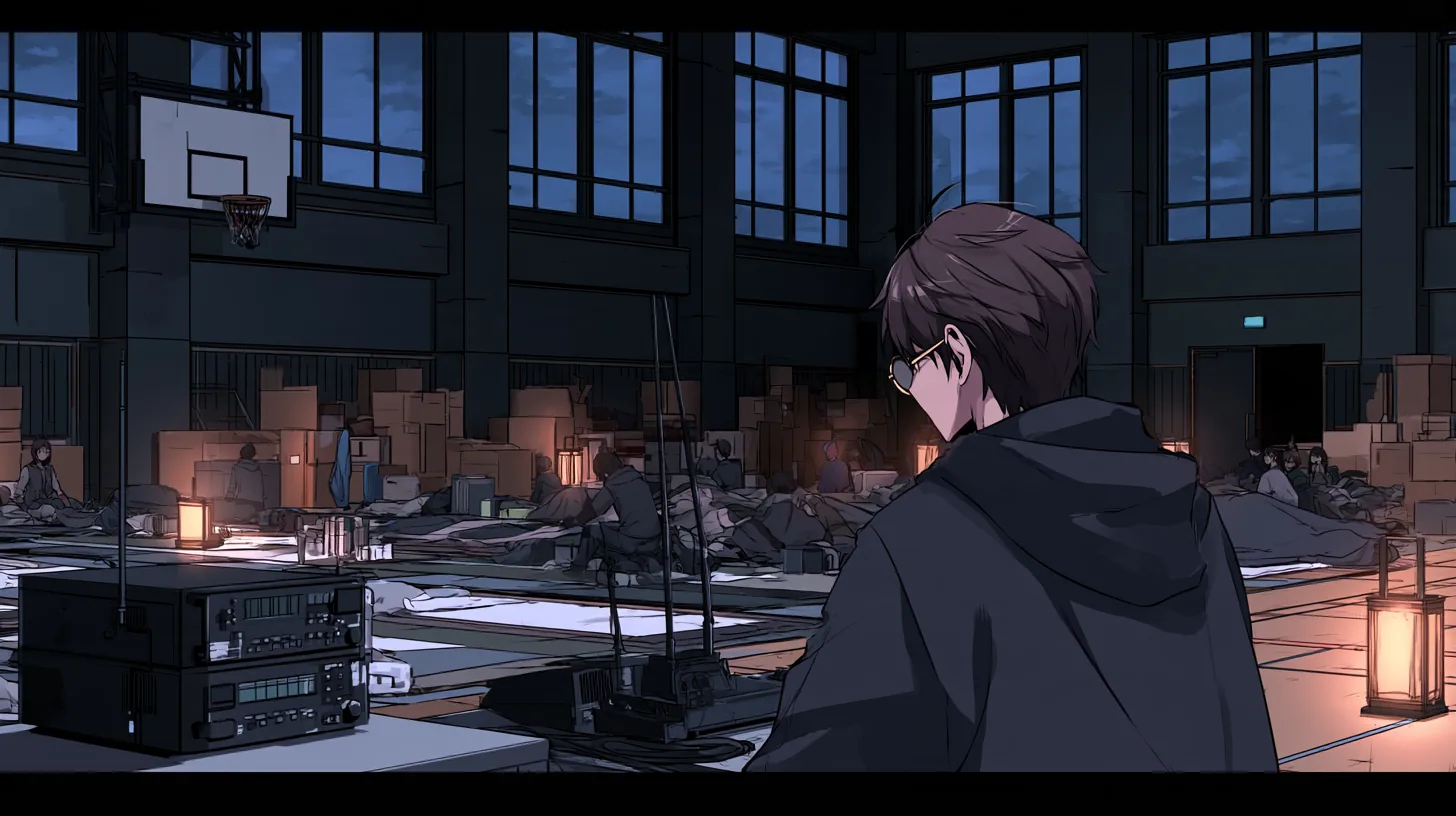
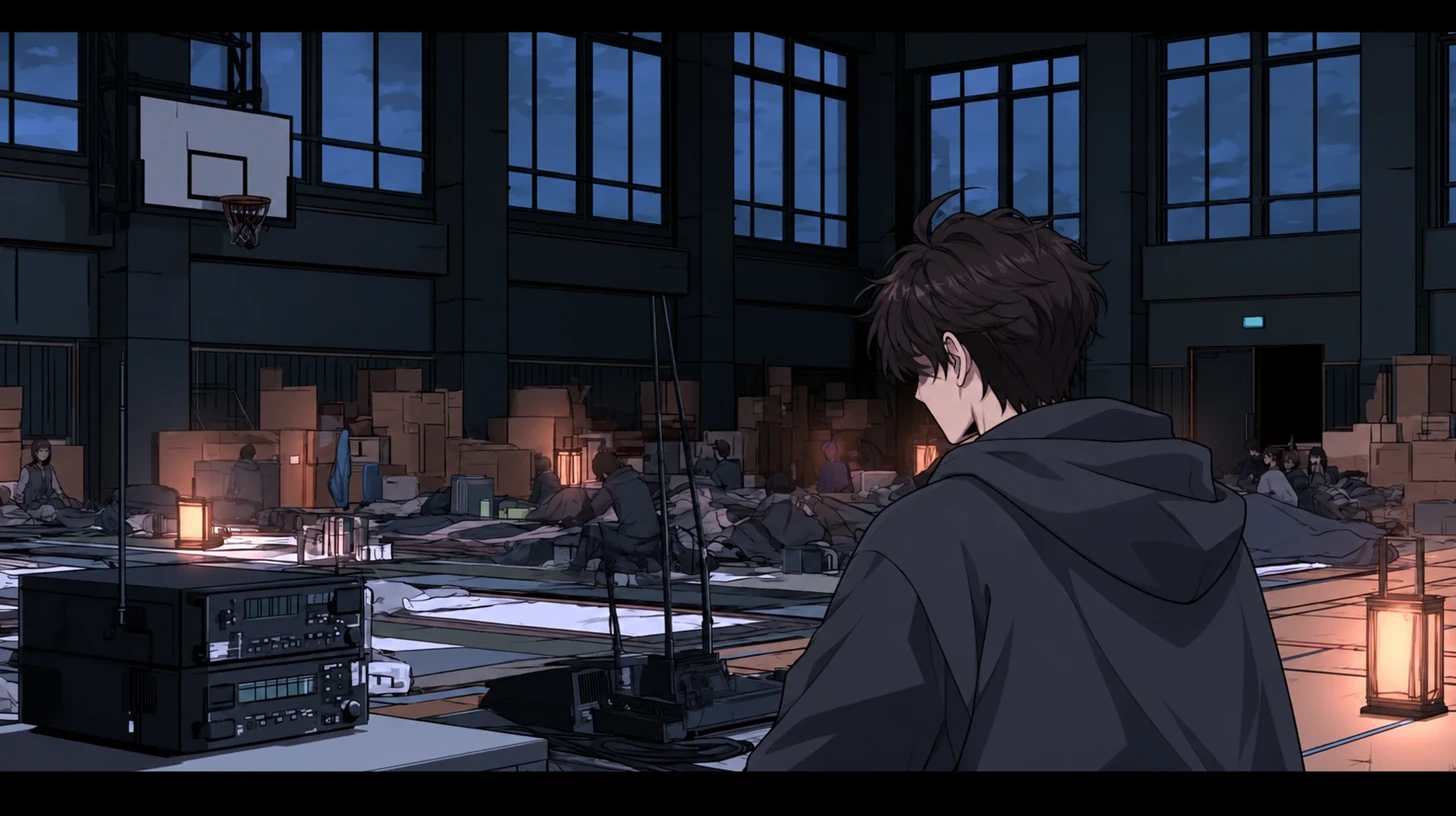
feat(cutscene): 생존자 방송의 재하 컷과 공 회상 그림을 바꾼다
- 생존자 방송 4·6·8번 컷의 재하를 갈색 머리, 안경 없는 얼굴로 바꾼다
- 공 회상 컷씬 그림을 바꾼다
- 바꾼 그림의 ?v= 버전을 올리고 흐린 미리보기를 다시 굽는다

diff --git a/src/lib/assets.ts b/src/lib/assets.ts
@@ -105,11 +105,11 @@ export const ASSETS = {
     cutsceneSurvivor1: "/assets/images/cutscene-survivor-1.webp?v=2",
     cutsceneSurvivor2: "/assets/images/cutscene-survivor-2.webp?v=2",
     cutsceneSurvivor3: "/assets/images/cutscene-survivor-3.webp?v=3",
-    cutsceneSurvivor4: "/assets/images/cutscene-survivor-4.webp?v=2",
+    cutsceneSurvivor4: "/assets/images/cutscene-survivor-4.webp?v=4",
     cutsceneSurvivor5: "/assets/images/cutscene-survivor-5.webp?v=2",
-    cutsceneSurvivor6: "/assets/images/cutscene-survivor-6.webp?v=2",
+    cutsceneSurvivor6: "/assets/images/cutscene-survivor-6.webp?v=3",
     cutsceneSurvivor7: "/assets/images/cutscene-survivor-7.webp?v=2",
-    cutsceneSurvivor8: "/assets/images/cutscene-survivor-8.webp?v=2",
+    cutsceneSurvivor8: "/assets/images/cutscene-survivor-8.webp?v=5",
     cutsceneSurvivor9: "/assets/images/cutscene-survivor-9.webp?v=2",
     cutsceneSurvivor10: "/assets/images/cutscene-survivor-10.webp?v=3",
     /** '뒤집으면 보인다' 조사 에셋. */
